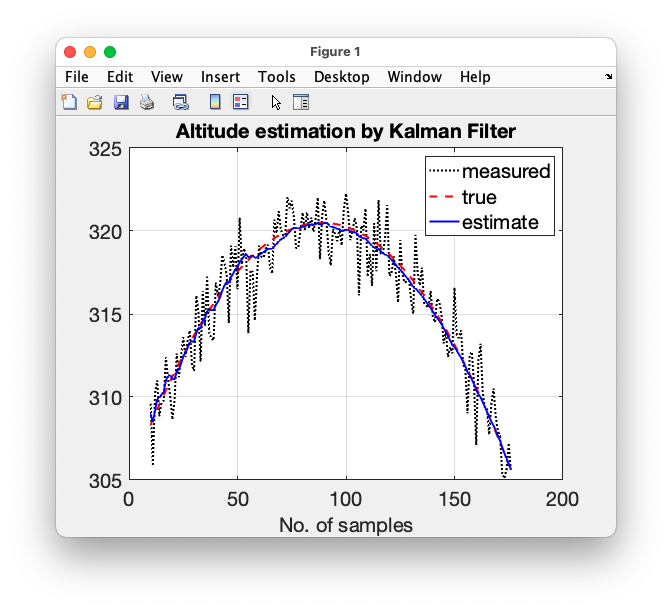
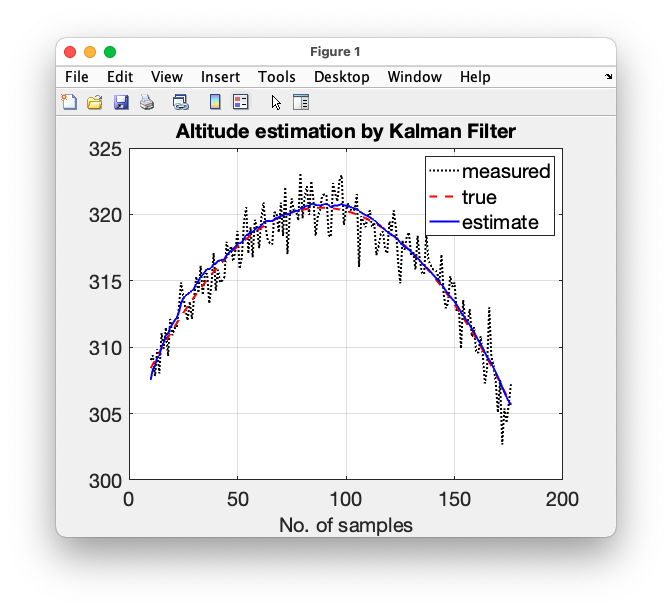
use pressure sensor value for calculating altitude

diff --git a/apogee.m b/apogee.m
@@ -21,9 +21,6 @@ accn=polyval(pcoeff,tn);
 %N=2 for pressure
 pcoeff=polyfit(t,p,2);
 pn=polyval(pcoeff,tn);
-%N=2 for altitude
-pcoeff=polyfit(t,altitude,2);
-altituden=polyval(pcoeff,tn);
 
 % System model definition
 % Described in Application of the Kalman Filter to Rocket Apogee Detection
@@ -43,11 +40,15 @@ w=randn(N,2)*sqrtm(diag([r1,r2]));
 Qk = cov(v);
 Rk = cov(w);
 
+p0 = 101325; %[Pa]: Atmospheric pressure at sea level
+T=23; %degC: Temperature in the sky
+altituden=((p0./pn).^(1/5.257)-1)*(T+273.15)/0.0065;
+
 x=horzcat(altituden',accn');
 y=horzcat(altituden'+w(:,1),accn'+w(:,2));
-xhat=zeros(N,3); %xhat(:,1)=y(:,1); xhat(:,3)=y(:,2);
+xhat=zeros(N,3); 
 % Note: The performance is sensitive to value of gamma.
-gamma=100; P=gamma*eye(3);
+gamma=50; P=gamma*eye(3);
 xhat(1,:)=[0,0,0];
 for k=2:N
    [xhat(k,:),P,G] = kf(A,0,0,C,Qk,Rk,0,y(k,:),xhat(k-1,:),P); 

diff --git a/README.md b/README.md
@@ -32,7 +32,7 @@ The covariance matrix P is initialized as follows.
 
 ![](misc/P.png) 
 
-where gamma is the constant and I is the unit matrix. The value of the gamma was sensitive of the performance of the kalman filter. (I found gamma=100 worked fine.)
+where gamma is the constant and I is the unit matrix. The value of the gamma was sensitive of the performance of the kalman filter. (I found gamma=50 worked fine.)
 
 ## Sample data generation
 
